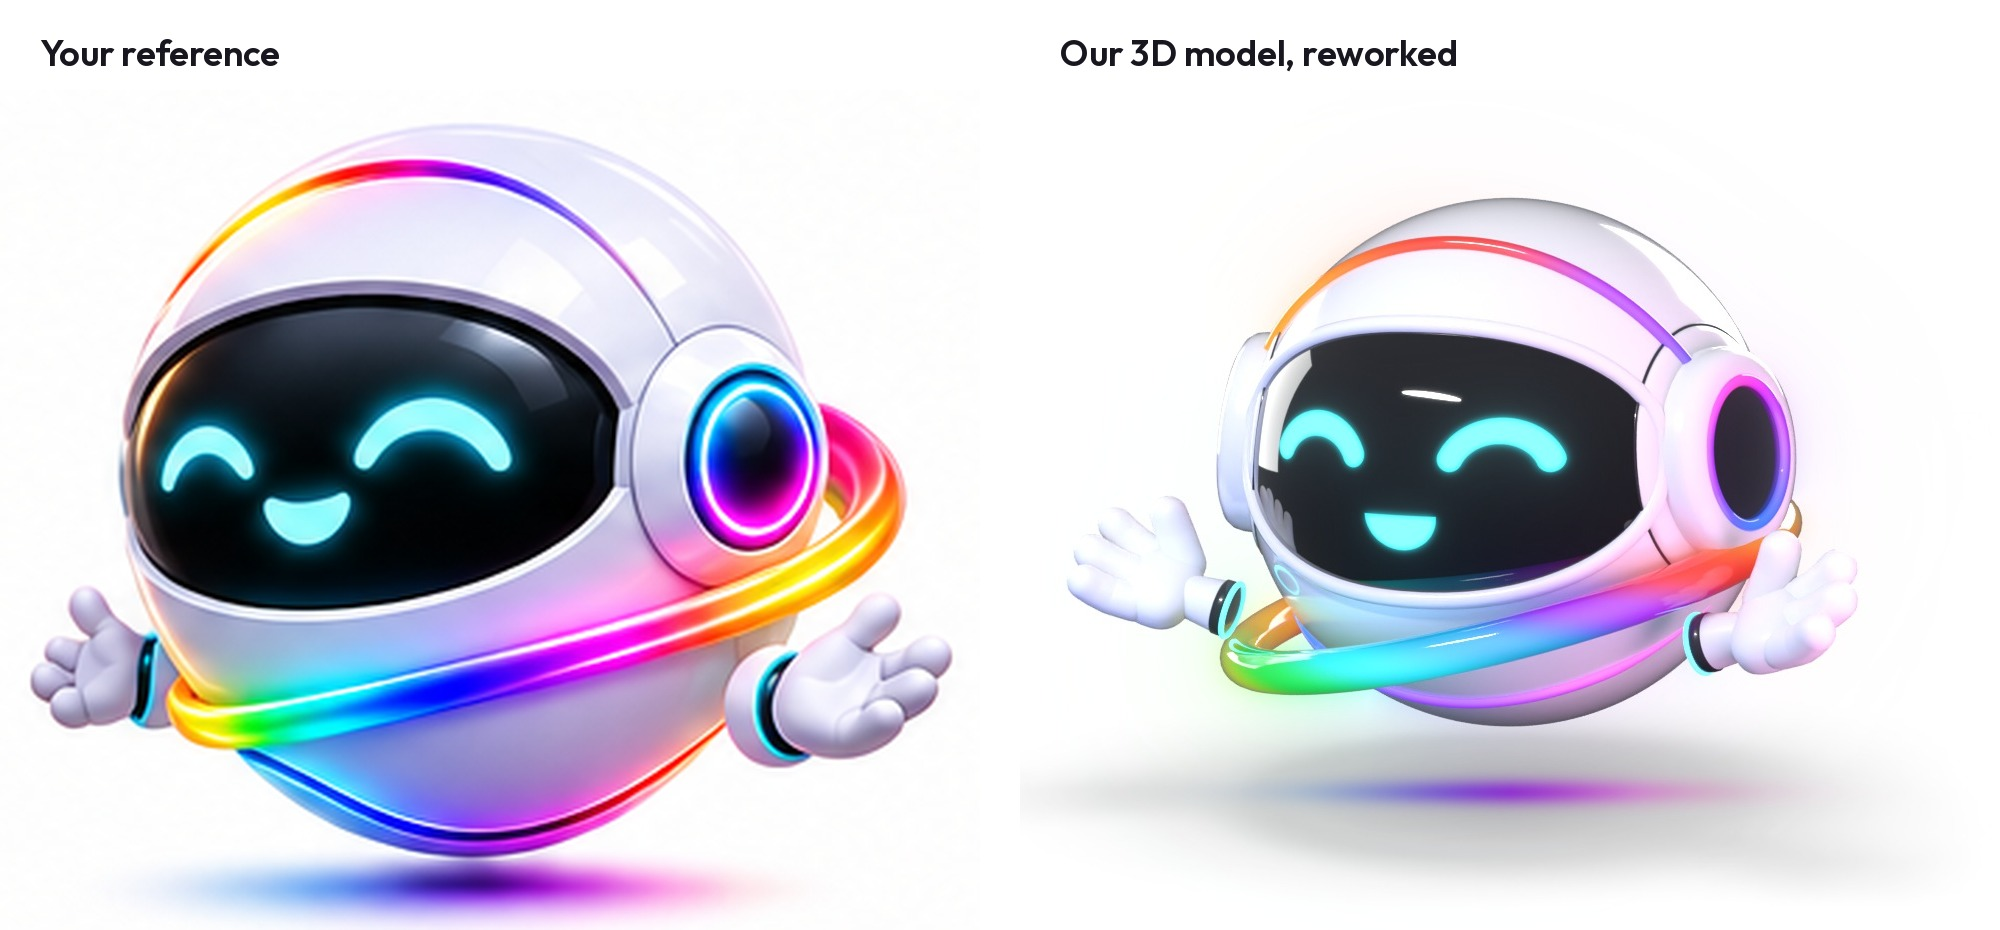
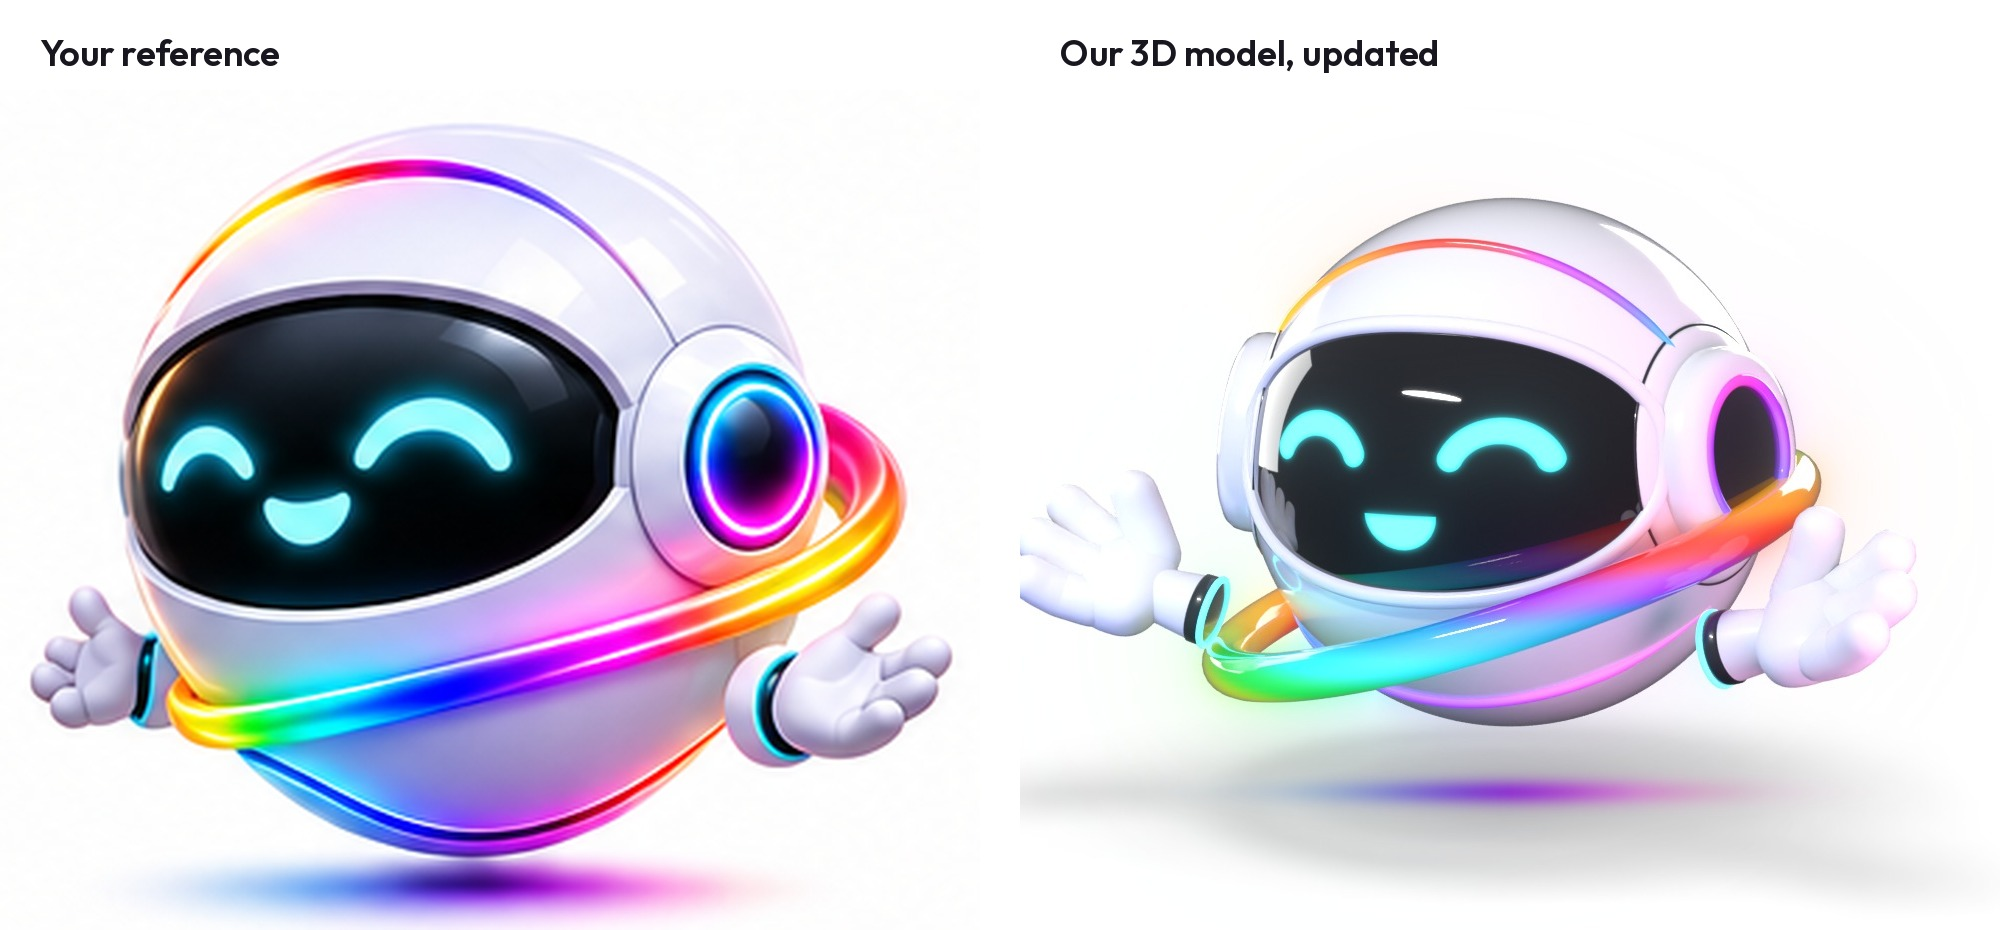
Character version 3: bigger ring, sharper top line clear of the ears, bolder hands
Claude-Session: https://claude.ai/code/session_011BdSE2fEeiEv9ZgoYmWAPn

diff --git a/design/hero/character/v3/build.py b/design/hero/character/v3/build.py
@@ -202,14 +202,14 @@ for s in (1, -1):
 E1 = on_sphere(EAR_LON, EAR_LAT); TOP = on_sphere(0, 58)
 n_ = Vector((1, 0, 0)).cross(TOP - Vector((0, E1.y, E1.z))).normalized(); d_ = n_.dot(E1); C_ = n_ * d_; rr_ = math.sqrt(1 - d_ * d_); up_ = n_.cross(Vector((1, 0, 0))).normalized()
 if up_.z < 0: up_ = -up_
-head_pts = [C_ + rr_ * (math.cos(a) * Vector((1, 0, 0)) + math.sin(a) * up_) for a in [math.radians(172 - 164 * i / 199) for i in range(200)]]
-tube('HeadStripe', head_pts, 0.03, M_head, n=12, color=lambda t: spectrum(0.875 - 0.5 * t), parent=root)
+head_pts = [C_ + rr_ * (math.cos(a) * Vector((1, 0, 0)) + math.sin(a) * up_) for a in [math.radians(149 - 118 * i / 199) for i in range(200)]]
+tube('HeadStripe', head_pts, lambda t: 0.019 * min(1, 9 * t, 9 * (1 - t)) + 0.002, M_head, n=12, color=lambda t: spectrum(0.875 - 0.5 * t), parent=root)
 seam_pts = [on_sphere(lon, -54 + 26 * (lon / 78) ** 2, 1.0) for lon in [-78 + 156 * i / 159 for i in range(160)]]
 tube('LowSeam', seam_pts, lambda t: 0.024 * min(1, 6 * t, 6 * (1 - t)) + 0.002, M_seam, n=12, color=lambda t: ramp(SEAM, t), parent=root)
 
 # ---------------------------------------------------------------- the ring: close round the body, tilted, banded like a rainbow
-RING_R, RING_r, RING_Z, RING_ROT = 1.06, 0.08, -0.47, (math.radians(6), math.radians(-13), 0)
-ring = torus('Ring', RING_R, RING_r, M_ring, n=360, m=24, u0=(1, 0, 0), color=lambda t, b: spectrum(2 * t - 0.23 + 0.06 * math.sin(b)), parent=root)
+RING_R, RING_r, RING_Z, RING_ROT = 1.14, 0.09, -0.4, (math.radians(8), math.radians(-16), 0)
+ring = torus('Ring', RING_R, RING_r, M_ring, n=360, m=24, u0=(1, 0, 0), color=lambda t, b: spectrum(2 * t - 0.23 + 0.1 * math.sin(b)), parent=root)
 ring.location = (0, 0, RING_Z); ring.rotation_euler = RING_ROT
 def ring_point(a_deg):
     a = math.radians(a_deg); m = Matrix.Translation((0, 0, RING_Z)) @ Euler(RING_ROT).to_matrix().to_4x4()
@@ -262,7 +262,7 @@ def show_hands(names):
     for k, objs in HANDS.items():
         for o in objs: o.hide_render = k not in names
 
-def side_hand(name, s, cuff=(0.93, -0.5, -0.55), pose='open', F=None, N=None, scale=1.4):
+def side_hand(name, s, cuff=(1.0, -0.52, -0.56), pose='open', F=None, N=None, scale=1.75):
     """A hand at the character's side (s = -1 its right, +1 its left), given by where its cuff ends."""
     F = Vector(F or (s * 0.95, -0.15, 0.27)).normalized(); N = N or (-s * 0.1, -0.6, 0.8)
     return hand(name, pose, -s, Vector((s * cuff[0], cuff[1], cuff[2])) + F * 0.205 * scale, F, N, scale)

diff --git a/design/hero/character/v3/final.py b/design/hero/character/v3/final.py
@@ -39,7 +39,7 @@ def neon(name, strength, white=0.12):
     nt.links.new(inv.outputs[0], st.inputs['Value']); nt.links.new(st.outputs['Result'], b.inputs['Emission Strength'])
     b.inputs['Roughness'].default_value = 0.1; b.inputs['Coat Weight'].default_value = 1.0; b.inputs['Coat Roughness'].default_value = 0.0
 bpy.data.materials['visor'].node_tree.nodes['Principled BSDF'].inputs['Emission Strength'].default_value = 1.6
-for nm, s_ in (('ring', 1.0), ('headStripe', 1.15), ('lowSeam', 1.5), ('earRing', 1.6)): neon(nm, s_)
+for nm, s_ in (('ring', 1.15), ('headStripe', 1.6), ('lowSeam', 2.0), ('earRing', 1.6)): neon(nm, s_)
 
 # ---------------------------------------------------------------- a floor that only catches the shadow
 FLOOR = -1.3
